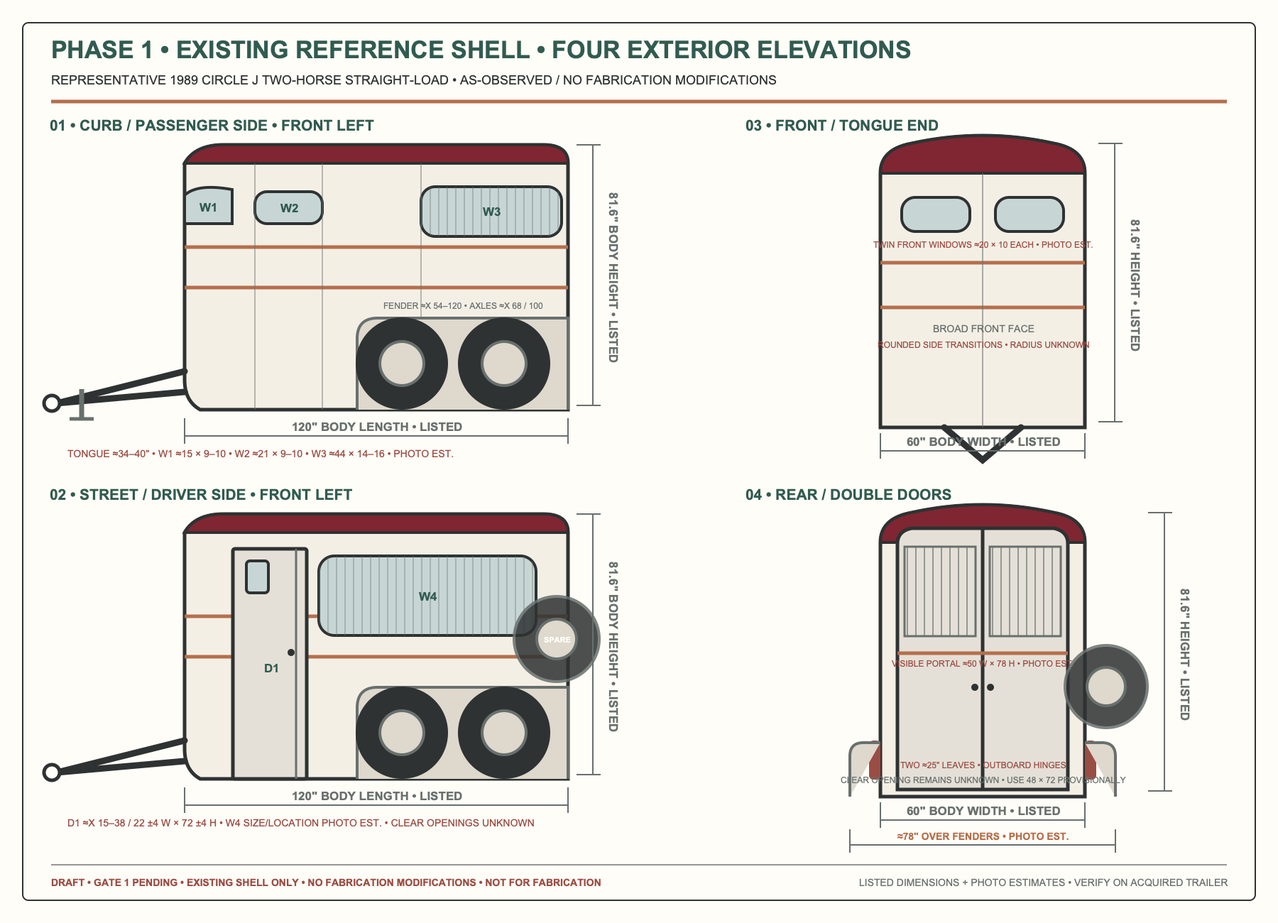
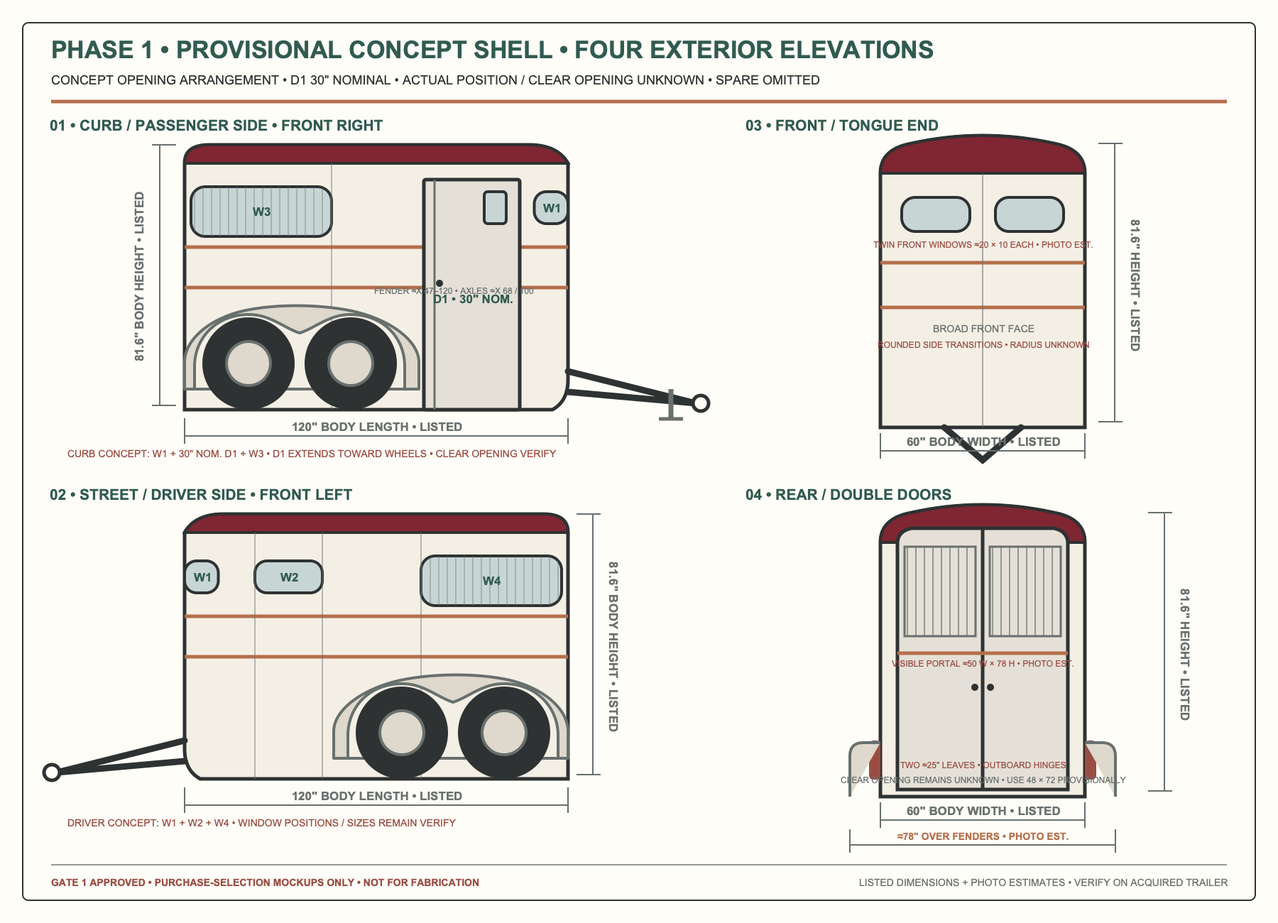
Complete Phase 1 provisional shell

diff --git a/11-MASTER-DIMENSIONAL-PARAMETER-REGISTER.md b/11-MASTER-DIMENSIONAL-PARAMETER-REGISTER.md
@@ -1,20 +1,20 @@
 # Lisa Drink Trailer — Master Dimensional Parameter Register
 
-**Revision:** 0.2 — September 7, 2026
-**Status:** DRAFT — AWAITING GATE 1 AND GATE 2 APPROVAL
+**Revision:** 0.6 — September 7, 2026
+**Status:** GATE 1 APPROVED — AWAITING GATE 2 APPROVAL
 **Purpose:** Provisional dimensional source for purchase-selection modeling and conversion coordination before the donor trailer is acquired and measured
 
 ## 1. Authority and permitted use
 
 This register implements the immediate next action in `10-PARAMETRIC-MODELING-PLAN.md`. It translates the current canonical written design into explicit parameters without changing any approved requirement.
 
-This draft is not yet canonical and does not override the Master Design Spec, Option A/B/C files or Decisions Log. If this register conflicts with those files, the canonical file wins and the conflict must be resolved before approval.
+This register is the approved Gate 1 provisional-envelope basis but does not override the Master Design Spec, Option A/B/C files or Decisions Log. If this register conflicts with those files, the canonical file wins and the conflict must be resolved before Gate 2 approval.
 
-Until Gate 1 and Gate 2 approval, this register may be used only to:
+Until Gate 2 approval, this register may be used only to:
 
 - audit dimensional completeness and consistency;
 - evaluate modeling systems;
-- construct non-released test geometry; and
+- construct purchase-selection mockups and non-released test geometry; and
 - identify measurements required for candidate-trailer screening.
 
 It may not be used to authorize purchase, structural cutting, equipment procurement, cabinetry release, fabrication, permitting or construction documentation.
@@ -82,7 +82,7 @@ These values describe only the documented reference trailer. They are retained s
 | REF-008 | Axle spacing | Approximately 32 | ESTIMATED | Difference of REF-006 and REF-007 | Photo-derived visualization input; allow at least ±2 inches pending direct measurement |
 | REF-009 | Tire outside diameter | Approximately 29 | ESTIMATED | REF-54738 photos 001 and 004 | Visual range approximately 28–31 inches; tire specification remains unknown |
 | REF-010 | Overall width over fenders | Approximately 78 | ESTIMATED | REF-54738 rear photo 004 scaled against 60-inch body width | Reference estimate only; SH-005 retains the 84-inch maximum clearance envelope |
-| REF-011 | Fender longitudinal envelope aft of front body datum | Approximately 54–120 | ESTIMATED | REF-54738 photo 001 | Photo-derived outer envelope; internal wheel-well geometry remains unknown |
+| REF-011 | Fender longitudinal envelope aft of front body datum | Approximately 47–120 | ESTIMATED | REF-54738 photo 001 and enhanced close view | Photo-derived outer envelope corrected to preserve the visible clearance ahead of the front tire; internal wheel-well geometry remains unknown |
 | REF-012 | Visible tongue projection from front body datum to coupler region | Approximately 34–40 | ESTIMATED | REF-54738 photo 001 scaled against REF-001 | Perspective-limited; SH-009 retains 48 inches as the conservative clearance-planning assumption |
 | REF-013 | Curb-side front-corner small-window longitudinal envelope | Approximately X 0–15 | ESTIMATED | REF-54738 photos 001 and 003 scaled against REF-001 | Visible outer opening envelope only; wraps the curved front corner; approximately 15 W × 9–10 H |
 | REF-014 | Curb-side forward small-window longitudinal envelope | Approximately X 22–43 | ESTIMATED | REF-54738 photo 001 scaled against REF-001 | Visible outer opening envelope only; approximately 21 W × 9–10 H |
@@ -92,6 +92,8 @@ These values describe only the documented reference trailer. They are retained s
 | REF-018 | Twin front-face windows | Approximately 20 W × 10 H each | ESTIMATED | REF-54738 photo 003 scaled against REF-002 | Perspective-limited outer opening envelopes; lateral offsets and clear sizes remain unknown |
 | REF-019 | Rear portal visible opening envelope | Approximately 50 W × 78 H | ESTIMATED | REF-54738 photos 004 and 005 scaled against REF-002/REF-003 | Approximately ±3 inches; visible envelope is not a verified clear opening or structural rough opening |
 | REF-020 | Rear double-door leaf face envelope | Approximately 25 W × 78 H each | ESTIMATED | REF-54738 photo 004 | Approximately ±2 W and ±3 H per leaf; center overlap, stops, seals and hardware reduce usable clearance |
+| REF-021 | Visible tire-to-inner-fender clearances | Approximately 6.5 ahead, 5.5 behind and 1 at crown | ESTIMATED | REF-54738 photo 001 and enhanced close view | Visualization proportions derived using the 29-inch tire proxy; do not use as suspension-travel or fabrication clearance |
+| REF-022 | Shell-top-to-fender / fender-to-ground visual split | Approximately 62% / 38% | ESTIMATED | REF-54738 photo 001 | Perspective-image proportion only; replaces the visually incorrect 50/50 relationship in the provisional elevation |
 
 The photo-derived values above were scaled manually from perspective raster images on September 7, 2026. They establish representative proportions only and are not suitable for purchase acceptance, interference approval or fabrication.
 
@@ -130,10 +132,10 @@ The photo-derived values above were scaled manually from perspective raster imag
 
 | ID | Model parameter | Provisional model input | Allowed/design range | Status | Source | Replacement trigger / note |
 |---|---|---:|---:|---|---|---|
-| LZ-001 | Front employee-support nook depth | 24 | 24 | DESIGN ASSUMPTION | MDS 1A; OA/OB/OC | Open to work aisle; no partition |
+| LZ-001 | Front employee-support nook depth | 24 target | 0–24 desired | DESIGN ASSUMPTION | MDS 1A; DL 2026-09-07 | Wish-list remainder only; open to work aisle with no partition when provided; may shrink or be omitted |
 | LZ-002 | Main work-zone length | 90 | 90 | DESIGN ASSUMPTION | MDS 6E; OA/OB/OC | Supports opening piers and exact equipment schedules |
-| LZ-003 | Total allocated interior length | 114 | 114 | DESIGN ASSUMPTION | LZ-001 + LZ-002 | Equals IN-001; no unallocated longitudinal tolerance |
-| LZ-004 | Front work-zone boundary from interior front datum | 24 | 24 | DESIGN ASSUMPTION | Derived | Start datum for service opening and equipment sequence |
+| LZ-003 | Minimum allocated work length | 90 | 90 | DESIGN ASSUMPTION | LZ-002 | Work zone controls; remaining verified interior length may become wish-list support space |
+| LZ-004 | Front work-zone boundary from interior front datum | Available remainder; 24 target in 114-inch test shell | 0–24 desired | DESIGN ASSUMPTION | `IN-001 - LZ-002` | Variable start datum for service opening and equipment sequence; not a required 24-inch boundary |
 | LZ-005 | Rear work-zone boundary from interior front datum | 114 | 114 | DESIGN ASSUMPTION | Derived | Coincides nominally with rear finished datum |
 
 ### 5.4 Required shell assertions
@@ -142,7 +144,7 @@ The first parametric implementation must stop with an error rather than regenera
 
 | Assertion | Required expression | Purpose |
 |---|---|---|
-| AS-001 | `LZ-001 + LZ-002 = IN-001` | Keeps the front nook and main work zone tied to the finished interior length |
+| AS-001 | `LZ-002 <= IN-001`; `LZ-001 = min(24, max(0, IN-001 - LZ-002))` | Protects the 90-inch work zone first and treats the front nook only as a wish-list remainder |
 | AS-002 | `2 × IN-005 + IN-002 = SH-002` only while walls are modeled as vertical proxies | Makes the inferred wall allowance explicit; disable and replace after wall sections are known |
 | AS-003 | `CV-001 + CV-003 = IN-002` | Enforces the locked 24-inch counter plus 32-inch aisle arrangement |
 | AS-004 | `CV-003 >= 30` at every operating projection and door position | Enforces minimum regulatory aisle width |
@@ -167,7 +169,7 @@ Unknown objects must be represented as disabled or visibly unresolved model laye
 | CH-006 | Wheel-well length | TBD | UNKNOWN | Candidate measurement and field survey |
 | CH-007 | Wheel-well interior projection | TBD | UNKNOWN | Candidate measurement and field survey |
 | CH-008 | Wheel-well height above finished floor | TBD | UNKNOWN | Candidate measurement and field survey |
-| CH-009 | Fender envelope | X approximately 54–120 from front body datum; approximately 78 overall width | ESTIMATED | REF-010 and REF-011; candidate measurement and field survey required |
+| CH-009 | Fender envelope | X approximately 47–120 from front body datum; approximately 78 overall width | ESTIMATED | REF-010 and REF-011; candidate measurement and field survey required |
 | CH-010 | Frame-rail positions/sections | TBD | UNKNOWN | Structural map required before underfloor placement |
 | CH-011 | Cross-member positions/sections | TBD | UNKNOWN | Structural map required before penetrations or tanks |
 | CH-012 | Floor construction and thickness | TBD | UNKNOWN | Physical inspection required |
@@ -179,11 +181,12 @@ Unknown objects must be represented as disabled or visibly unresolved model laye
 |---|---|---:|---:|---|---|---|
 | OP-001 | Rear-door clear width | 48 | 48–54 | DESIGN ASSUMPTION | MDS 1A; compare REF-019/REF-020 | Fit design to 48 until measured; photo-visible portal is approximately 50 inches wide but does not establish clear width |
 | OP-002 | Rear-door clear height | 72 | 72–76 | DESIGN ASSUMPTION | MDS 1A; compare REF-019/REF-020 | Fit design to 72 until measured; photo-visible portal is approximately 78 inches high but does not establish clear height |
-| OP-003 | Street-side donor-door position | TBD | Reference proxy outer frame approximately X 15–38 | UNKNOWN | MDS 6H; OA/OB/OC; compare REF-016 | B/C retain and protect; A permanently infills if present; candidate position must be measured |
-| OP-004 | Street-side donor-door clear width | TBD | Reference proxy outer frame approximately 22 ±4 | UNKNOWN | MDS 6H; compare REF-016 | Outer photo envelope is not a clear-opening dimension; controls B/C backbar breaks and egress |
-| OP-005 | Street-side donor-door clear height | TBD | Reference proxy outer frame approximately 72 ±4 | UNKNOWN | MDS 6H; compare REF-016 | Outer photo envelope is not a clear-opening dimension; controls B/C backbar bridge zone |
-| OP-006 | Existing curb-side openings | TBD | Reference proxy envelopes REF-013 through REF-015 | UNKNOWN | MDS 4.3 | Map every candidate opening before service-window design; photo estimates do not authorize cutting or reuse |
+| OP-003 | Donor side-door side and position | TBD | Reference proxy shows street-side outer frame approximately X 15–38; Phase 1 concept drawing places D1 curb-side | UNKNOWN | MDS 6H; OA/OB/OC; compare REF-016 | Concept placement is a visualization convention only; candidate side and position must be measured; Option rules remain separately locked |
+| OP-004 | Donor side-door clear width | TBD | Reference proxy outer frame approximately 22 ±4 | UNKNOWN | MDS 6H; compare REF-016 | Outer photo envelope is not a clear-opening dimension; exact door side and clear opening remain unknown |
+| OP-005 | Donor side-door clear height | TBD | Reference proxy outer frame approximately 72 ±4 | UNKNOWN | MDS 6H; compare REF-016 | Outer photo envelope is not a clear-opening dimension; exact clear height remains unknown |
+| OP-006 | Existing side openings | TBD | Reference proxy envelopes REF-013 through REF-016 | UNKNOWN | MDS 4.3 | Map every candidate opening before service-window design; photo estimates do not authorize cutting or reuse |
 | OP-007 | Existing roof openings | TBD | TBD | UNKNOWN | PMP 3 | Coordinate HVAC and Option A escape hatch |
+| OP-008 | Phase 1 concept opening arrangement | Curb: W1, 30-inch nominal outer-width D1, W3; street: W1, W2, W4; W1 shown at one-half W2 width on both sides | Actual door side/position, clear opening and all opening construction remain TBD | DESIGN ASSUMPTION | DL 2026-09-07 working direction | Hold D1's tongue-side jamb and extend nominal width toward wheels; drawing convention only, not donor evidence or an Option A/B/C revision |
 | ST-001 | Wall-post/rib positions | TBD | TBD | UNKNOWN | PMP 3; MDS 4.4 | No structural opening release without field map |
 | ST-002 | Roof-bow positions | TBD | TBD | UNKNOWN | PMP 3; MDS 4.4 | Controls HVAC and escape hatch |
 | ST-003 | Front bulkhead structure | TBD | TBD | UNKNOWN | MDS 4.4 | Controls electrical panel and employee nook |
@@ -201,7 +204,7 @@ Unknown objects must be represented as disabled or visibly unresolved model laye
 | CV-004 | Second full-depth counter allowance | 0 | 0 | DESIGN ASSUMPTION | MDS 1A, 6E | Prohibited in every option |
 | CV-005 | Service-opening width | 60 | 60 maximum | DESIGN ASSUMPTION | MDS 1A, 6E | Reduce if measured structure requires |
 | CV-006 | Service-opening height | 30 | 30 maximum | DESIGN ASSUMPTION | MDS 1A, 6E | Full open use not approved by health authority |
-| CV-007 | Service-opening longitudinal zone | X = 39 to 99; center X = 69 | Centered in 90-inch work zone | DESIGN ASSUMPTION | MDS 6E; derived from LZ-004, CV-005 and CV-008 | Provisional only; relocate/reduce after structure map if required |
+| CV-007 | Service-opening longitudinal zone | X = `LZ-004 + 15` to `LZ-004 + 75`; target X = 39 to 99 in 114-inch test shell | Centered in 90-inch work zone | DESIGN ASSUMPTION | MDS 6E; derived from LZ-004, CV-005 and CV-008 | Moves with the variable front remainder; relocate/reduce after structure map if required |
 | CV-008 | Front solid wall pier | 15 | 15 nominal | DESIGN ASSUMPTION | MDS 6E | Not a verified structural pier |
 | CV-009 | Rear solid wall pier | 15 | 15 nominal | DESIGN ASSUMPTION | MDS 6E | Not a verified structural pier |
 | CV-010 | Service-opening sill elevation | TBD | Coordinate to 36–40 service counter | UNKNOWN | MDS 6E | Set only after clear height/header band is verified |
@@ -373,7 +376,7 @@ These findings do not revise the design. They identify issues that must be accep
 
 | Finding | Severity | Observation | Required resolution |
 |---|---|---|---|
-| F-001 | CONTROLLED | The 114-inch finished interior length equals the 24-inch front nook plus the 90-inch work zone exactly. There is no unallocated longitudinal zone. | Use the finished-face datums and AS-001. Any measured shortfall fails the fit test and requires design review. |
+| F-001 | CONTROLLED | The 90-inch work zone is the controlling longitudinal allocation. A 114-inch test shell leaves up to 24 inches ahead of it, but that remainder is a wish-list employee-support area rather than a required zone. | Use the finished-face datums and AS-001. Reduce or omit the nook before reducing required operations, clearances or egress; a work-zone shortfall still requires design review. |
 | F-002 | HIGH | Each A/B equipment schedule totals exactly 90 inches, and the Option C module schedule also totals exactly 90 inches. Catalog widths, end panels, fillers, side clearances, plumbing offsets and shell irregularity have no allocated tolerance. | Create a module-tolerance strategy and test low/high catalog envelopes before Gate 2. Do not resize operational equipment silently. |
 | F-003 | CONTROLLED | The 56-inch interior width equals one 24-inch counter plus the 32-inch nominal aisle exactly. Any backsplash build-out, handle projection, wall irregularity or opposite-wall lower element can reduce the aisle. | Measure counter depth from finished wall to maximum operating projection and enforce AS-003, AS-004 and AS-009. Any intrusion fails the fit test. |
 | F-004 | HIGH | B/C retain a street-side door, but its position and dimensions are unknown while both backbar compositions depend on it. | Hold final backbar widths, mounting and symmetry until a candidate door is measured. |
@@ -425,13 +428,15 @@ These measurements support purchase screening only. A complete physical survey r
 
 ### Gate 1 — provisional envelope
 
-**Current recommendation:** NOT YET APPROVED.
+**Status:** APPROVED September 7, 2026, by Mike.
+
+**Approved basis:** Mike approved the provisional 120 × 60 × 84-inch exterior body envelope; the 114 × 56 × 76-inch conservative finished-clear interior envelope using the cutaway; the revised longitudinal rule protecting the 90-inch work zone while treating up to 24 inches of front remainder as wish-list space; the provisional 48 × 72-inch rear-door opening; the concept side-opening arrangement; and the photo-estimated running-gear/fender silhouette. Mike also explicitly accepted that donor-specific chassis, internal wheel-well, structural-member, roof-profile, floor/ceiling assembly and actual-opening geometry remain `UNKNOWN` for purchase-selection mockups.
 
 The envelope is sufficiently explicit to construct a provisional test shell and evaluate modeling tools, but the following must be accepted as deliberate purchase-selection assumptions before the shell is approved for candidate mockups:
 
 - 120 × 60 × 84-inch exterior body envelope;
 - 114 × 56 × 76-inch conservative finished-clear interior envelope, with an 80-inch high case retained only as a secondary range test;
-- 24-inch front nook plus 90-inch work zone with no unallocated longitudinal tolerance;
+- 90-inch controlling work zone, with any front remainder treated as a wish-list employee-support area up to 24 inches rather than a required allocation;
 - provisional 48 × 72-inch rear-door opening; and
 - all chassis, wheel-well, structural-member, roof-profile and side-door geometry remaining `UNKNOWN`.
 
@@ -456,7 +461,7 @@ Before Gate 2 approval:
 
 | Gate | Status | Approved by | Date | Scope / conditions |
 |---|---|---|---|---|
-| Gate 1 — provisional envelope | PENDING | — | — | Purchase-selection mockups only |
+| Gate 1 — provisional envelope | APPROVED | Mike | 2026-09-07 | Purchase-selection mockups only; all documented assumptions and `UNKNOWN` geometry retained; no fabrication or purchase release |
 | Gate 2 — conversion parameters | PENDING | — | — | Required before option geometry construction |
 
 Approval of this register does not verify the future donor trailer and does not release procurement, cutting, fabrication, permitting or construction documentation.

diff --git a/12-REFERENCE-TRAILER-PHOTO-SURVEY.md b/12-REFERENCE-TRAILER-PHOTO-SURVEY.md
@@ -1,6 +1,6 @@
 # Lisa Drink Trailer — Locked Reference Trailer Photo and Plan Survey
 
-**Revision:** 0.2 — September 7, 2026
+**Revision:** 0.6 — September 7, 2026
 **Status:** SUPPORTING EVIDENCE — NOT DESIGN AUTHORITY / NOT A FIELD SURVEY
 **Reference:** 1989 Circle J two-horse straight-load bumper-pull, Horse Trailer Trader stock 54738
 **Purpose:** Record observable shell, running-gear, opening and structural cues for the provisional Phase 1 model without misrepresenting raster photographs as measured donor geometry
@@ -18,17 +18,19 @@ This survey separates:
 
 Perspective, lens distortion, low resolution, occlusion and unknown measurement conventions materially limit the estimates. No value in this survey is field-verified. Photo-estimated values may guide a provisional visualization layer, but they may not support purchase acceptance, equipment fit, structural design, cutting, fabrication or permitting.
 
-Third-party photographs and the secondary Pinterest plan were inspected from their original URLs. They are not copied into the repository or approved for presentation reuse.
+The five Horse Trailer Trader photographs are preserved as reference copies in `references/photos/horse-trailer-trader-54738/`, with their original URLs and provenance retained below. They remain supporting evidence and are not approved as presentation artwork. The secondary Pinterest plan was inspected from its original URL and is not copied into the repository.
+
+The photographed reference shows a street/driver-side door. The Phase 1 provisional concept drawings intentionally use a different, explicitly unverified opening arrangement: D1 on the curb/passenger side at 30 inches nominal outer width, W2 on the street/driver side and W1 on both sides. The 30-inch D1 is extended toward the wheels from a held tongue-side jamb. That working drawing convention does not reinterpret the photographs or establish the future donor trailer's door side, position, construction or clear opening.
 
 ## 2. Photo index and walk-around sequence
 
 | Photo | Listing view | Principal evidence |
 |---|---|---|
-| [001](https://cdn.horsetrailertrader.com/trailer-images/54738/1989_Circle_J_001.jpg) | Near-orthographic curb/passenger-side profile; tongue left, rear right | Body-length scaling, axle centers, axle spacing, tire diameter, longitudinal fender envelope, curb-side windows, roof/body seam and lower frame relationship |
-| [002](https://cdn.horsetrailertrader.com/trailer-images/54738/1989_Circle_J_002.jpg) | Close oblique street/driver-side view looking toward the rear | Existing forward side/escape door, large upper opening, door swing, wall rails, rear portal and fender relationship |
-| [003](https://cdn.horsetrailertrader.com/trailer-images/54738/1989_Circle_J_003.jpg) | Front three-quarter view | Broad front face, rounded front corners, curved roof cap, front windows, A-frame relationship and side-to-front transitions |
-| [004](https://cdn.horsetrailertrader.com/trailer-images/54738/1989_Circle_J_004.jpg) | Rear view with double doors closed | Approximate body-to-fender width ratio, rear portal, split rear doors, roof/rear corner radii, hinges, lights, license plate and spare-tire projection |
-| [005](https://cdn.horsetrailertrader.com/trailer-images/54738/1989_Circle_J_005.jpg) | Rear view with both doors open | Interior width character, center stall divider, roof bows, interior wall framing cues, floor/mat condition and rear-door swing envelope |
+| [001](references/photos/horse-trailer-trader-54738/1989_Circle_J_001.jpg) ([original](https://cdn.horsetrailertrader.com/trailer-images/54738/1989_Circle_J_001.jpg)) | Near-orthographic curb/passenger-side profile; tongue left, rear right | Body-length scaling, axle centers, axle spacing, tire diameter, longitudinal fender envelope, curb-side windows, roof/body seam and lower frame relationship |
+| [002](references/photos/horse-trailer-trader-54738/1989_Circle_J_002.jpg) ([original](https://cdn.horsetrailertrader.com/trailer-images/54738/1989_Circle_J_002.jpg)) | Close oblique street/driver-side view looking toward the rear | Existing forward side/escape door, large upper opening, door swing, wall rails, rear portal and fender relationship |
+| [003](references/photos/horse-trailer-trader-54738/1989_Circle_J_003.jpg) ([original](https://cdn.horsetrailertrader.com/trailer-images/54738/1989_Circle_J_003.jpg)) | Front three-quarter view | Broad front face, rounded front corners, curved roof cap, front windows, A-frame relationship and side-to-front transitions |
+| [004](references/photos/horse-trailer-trader-54738/1989_Circle_J_004.jpg) ([original](https://cdn.horsetrailertrader.com/trailer-images/54738/1989_Circle_J_004.jpg)) | Rear view with double doors closed | Approximate body-to-fender width ratio, rear portal, split rear doors, roof/rear corner radii, hinges, lights, license plate and spare-tire projection |
+| [005](references/photos/horse-trailer-trader-54738/1989_Circle_J_005.jpg) ([original](https://cdn.horsetrailertrader.com/trailer-images/54738/1989_Circle_J_005.jpg)) | Rear view with both doors open | Interior width character, center stall divider, roof bows, interior wall framing cues, floor/mat condition and rear-door swing envelope |
 
 ## 3. Listed reference facts
 
@@ -73,8 +75,12 @@ The profile is the least oblique of the five photos. Scaling was performed again
 | Rear axle center aft of front body datum | 100 inches | ±3 inches | Representative visualization only |
 | Axle spacing | 32 inches | ±2 inches | Difference is more stable than either absolute center |
 | Tire outside diameter | 29 inches | Approximately 28–31 inches | Tire specification remains UNKNOWN |
-| Fender leading edge aft of front body datum | 54 inches | ±5 inches | Edge is curved and partly obscured |
+| Fender leading edge aft of front body datum | Approximately 47 inches | ±5 inches | Corrected from 54 inches after reviewing the enhanced close view; the fender visibly begins ahead of the front tire rather than tangent to it |
 | Fender trailing edge aft of front body datum | Approximately 120 inches | ±3 inches | Visually reaches the rear body region |
+| Tire-to-fender clearance, ahead of front tire | Approximately 6.5 inches | ±3 inches | Derived from the 47-inch fender lead, 68-inch axle center and 29-inch tire proxy; visualization only |
+| Tire-to-fender clearance, behind rear tire | Approximately 5.5 inches | ±3 inches | Derived from the 120-inch fender end, 100-inch axle center and 29-inch tire proxy; visualization only |
+| Visible tire-to-inner-fender crown clearance | Approximately 1 inch | ±1 inch | The tire is closely tucked beneath the inner fender arch; retain a visible gap without implying suspension clearance |
+| Shell-top-to-fender / fender-to-ground split | Approximately 62% / 38% | ±4 percentage points | Profile-image proportion using the roof crown, outer fender crown and tire contact line; the relationship is not 50/50 |
 | Visible tongue projection, front body to coupler region | Approximately 34–40 inches | ±6 inches | Does not override the 48-inch conservative design assumption |
 
 The same 120-inch profile scale supports provisional outer-opening envelopes. These are wall-face projections, not clear openings or structural rough openings.
@@ -108,14 +114,14 @@ The same 120-inch profile scale supports provisional outer-opening envelopes. Th
 
 - Options B and C must treat the retained street-side door as a real interruption, not a small symbolic notch in a continuous backbar.
 - The door swing, latch, threshold, step, grab handle and interior release need their own operating and egress volumes.
-- The photograph cannot establish whether the door falls wholly inside the 24-inch front support zone, crosses the 24/90-inch boundary or occupies the main work zone. That position remains a candidate-measurement priority.
+- The photograph cannot establish whether the door falls wholly inside the desired front support remainder, crosses the target boundary near X = 24 inches in the 114-inch test shell, or occupies the controlling main work zone. That position remains a candidate-measurement priority.
 - Option A's permanent infill assumption requires a measured door/frame map and engineered replacement load path; the photo does not support a flush cosmetic infill alone.
 
 ### Photo-scaled door envelope
 
 Mapping the visible street-side wall to the listed 120-inch body suggests an outer door-frame envelope from approximately X 15 to X 38 inches aft of the front body datum. The corresponding visible envelope is approximately 22 ±4 inches wide and 72 ±4 inches high. The small upper door-window aperture appears approximately 5–7 inches wide × 9–11 inches high.
 
-These are deliberately low-confidence outer-envelope estimates from a highly oblique image. They do not establish clear opening, rough opening, threshold height, frame section, door thickness or swing clearance. The estimate suggests that the door likely crosses the canonical X = 24-inch front-nook/work-zone boundary, making it a direct constraint for Options B and C.
+These are deliberately low-confidence outer-envelope estimates from a highly oblique image. They do not establish clear opening, rough opening, threshold height, frame section, door thickness or swing clearance. In the 114-inch test shell, the estimate suggests that the door likely crosses the target X = 24-inch front-remainder/work-zone boundary. That boundary is not required and must move with verified interior length, but the door remains a direct constraint for Options B and C.
 
 ## 6. Photo 003 — front three-quarter view
 
@@ -213,7 +219,7 @@ The user-supplied [Pinterest pin 290763719708099062](https://ar.pinterest.com/pi
 
 ### Running-gear comparison
 
-The Pinterest drawing cannot check wheel placement. It shows a side-mounted spare tire but omits the road wheels, fenders, axle centerlines, track width and wheel wells. The current approximately 68-inch and 100-inch axle centers, approximately 32-inch spacing and approximately 54–120-inch fender envelope remain derived only from Circle J listing photos 001 and 004.
+The Pinterest drawing cannot check wheel placement. It shows a side-mounted spare tire but omits the road wheels, fenders, axle centerlines, track width and wheel wells. The current approximately 68-inch and 100-inch axle centers, approximately 32-inch spacing and approximately 47–120-inch fender envelope remain derived only from Circle J listing photos 001 and 004 and the enhanced close view of photo 001.
 
 ## 10. Consolidated comparison with the Phase 1 register
 
@@ -229,7 +235,7 @@ The Pinterest drawing cannot check wheel placement. It shows a side-mounted spar
 | Axle spacing | Approximately 32 | Approximately 32 PHOTO-ESTIMATED | Use only in the reference-geometry layer |
 | Tire outside diameter | Approximately 29 | Approximately 28–31 PHOTO-ESTIMATED | Use 29 nominal for visualization; tire specification remains UNKNOWN |
 | Overall width over fenders | 84 maximum clearance envelope | Approximately 78 PHOTO-ESTIMATED | Show both: 78 reference estimate and 84 design-clearance maximum |
-| Fender longitudinal envelope | Approximately 54–120 | Approximately 54–120 PHOTO-ESTIMATED | Use only in the reference-geometry layer |
+| Fender longitudinal envelope | Approximately 47–120 | Approximately 47–120 PHOTO-ESTIMATED | Use only in the reference-geometry layer; corrected to retain visible tire-to-fender clearance |
 | Interior wheel-well envelope | TBD | Not visible well enough | Remain UNKNOWN |
 | Street-side door position/size | TBD | Outer frame approximately X 15–38 and 22 ±4 W × 72 ±4 H PHOTO-ESTIMATED | Show only in reference-estimate layer; clear opening remains UNKNOWN and blocks B/C backbar release |
 | Rear opening | 48 × 72 conservative | Visible portal approximately 50 W × 78 H; two approximately 25-inch leaves PHOTO-ESTIMATED | Retain conservative clear-opening assumption; model leaves and outward swing separately |

diff --git a/02-DECISIONS-LOG.md b/02-DECISIONS-LOG.md
@@ -1,6 +1,6 @@
 # Lisa Drink Trailer — Decisions Log
 
-**Revision:** 2.6 — September 7, 2026
+**Revision:** 2.8 — September 7, 2026
 **Status:** CANONICAL DECISION RECORD  
 **Rule:** A decision becomes authoritative only when recorded here and incorporated into the applicable canonical specification.
 
@@ -24,7 +24,7 @@
 | 2026-09-06 | LOCKED | Provide a 14–16-inch-deep customer ledge in operating mode; fold or remove and positively latch it for travel. |
 | 2026-09-06 | LOCKED | Preserve one 24-inch production line and a 32-inch nominal clear aisle; prohibit two full-depth opposing counters. |
 | 2026-09-06 | SUPERSEDED | Convert the front changing/tack area into a separated micro employee break/support area. |
-| 2026-09-07 | LOCKED | Remove the front partition from Options A, B and C; retain the 24-inch employee break/support nook as an open area visible from the work aisle. |
+| 2026-09-07 | SUPERSEDED | Remove the front partition from Options A, B and C; retain the 24-inch employee break/support nook as an open area visible from the work aisle. Superseded only as to the fixed 24-inch depth by Mike's later wish-list direction; if any nook is provided, it remains open with no partition. |
 | 2026-09-06 | LOCKED | Use only real, listed, off-the-shelf operational equipment; trailer-specific cabinetry and supports may be fabricated. |
 | 2026-09-06 | LOCKED | Retain a separate 12-inch hand sink in every option unless written health-authority approval changes the requirement. |
 | 2026-09-06 | CONDITIONAL | Options A and B use the 36-inch two-compartment sink as the locked concept basis. Procurement/fabrication requires written acceptance of the two-compartment procedure; otherwise redesign the 90-inch line for the required configuration. |
@@ -65,6 +65,12 @@
 | 2026-09-07 | LOCKED | Select exterior-lighting study Option 2 as the concept and presentation direction: two matching compact oval caged bulkhead lights in matte charcoal, approximately 5 inches wide × 8 inches tall, with vertically ribbed frosted glass and soft glare-controlled 2700–3000 K illumination. The study controls visual direction only; exact listed exterior-rated product, photometrics, wiring, mounting and structural clearances remain **VERIFY**, with no procurement or fabrication release. |
 | 2026-09-07 | LOCKED | Mike approved `COVER-EX-01-twilight-rear-seating-approved.png` for presentation use. Preserve the accepted trailer design, place loose seating behind the trailer to keep the service-side queue apron clear, and use the later deep-blue twilight setting with the approved warm oval bulkhead lighting. Sign artwork and technical dimensions remain separate verification/layout tasks. |
 | 2026-09-07 | LOCKED | Adopt `10-PARAMETRIC-MODELING-PLAN.md` as the canonical concept-to-construction geometry workflow. Because the donor trailer has not yet been purchased or measured, build a provisional parameter-driven master shell from the representative Circle J platform, explicitly classifying dimensions as VERIFIED REFERENCE, ESTIMATED, DESIGN ASSUMPTION or UNKNOWN. Future geometry-controlled plans, elevations, sections and presentation views are to be derived from one approved master model rather than independently interpreted illustrations. Existing approved SVG drawings remain concept references, not fabrication drawings. After purchase, replace provisional shell parameters with a VIN-specific physical survey before construction-document release. |
+| 2026-09-07 | WORKING | For the Phase 1 provisional concept-shell drawings only, show D1 on the curb/passenger side at 30 inches nominal outer width, holding its tongue-side jamb and extending the added width toward the wheels. Place W2 on the street/driver side, show W1 on both sides at one-half W2 width and flip the passenger-side elevation so its tongue faces right for the intended camera-like view. D1's actual side, position, construction and clear opening remain unknown. This visualization arrangement does not revise the locked Option A/B/C door, service-window or egress rules. |
+| 2026-09-07 | LOCKED | For Phase 1 Gate 1 review, Mike approved the provisional 120 × 60 × 84-inch exterior body envelope. This approves item 1 only as a purchase-selection modeling assumption; the finished interior envelope and Gate 1 as a whole remain pending. |
+| 2026-09-07 | LOCKED | Treat the former 24-inch front employee-support nook as a wish-list target, not a required allocation. The 90-inch work zone controls; any verified interior length remaining ahead of it may support an open nook up to 24 inches, but the nook may shrink or be omitted rather than displacing required operations, clearances or egress. |
+| 2026-09-07 | LOCKED | For Phase 1 Gate 1 review, Mike approved the provisional 114 × 56 × 76-inch finished-clear interior envelope using the transverse and longitudinal cutaway. The 80-inch clear-height case remains a secondary range test; floor and roof/ceiling build-up shares remain unassigned pending donor survey. |
+| 2026-09-07 | LOCKED | For Phase 1 Gate 1 review, Mike approved the provisional 48 × 72-inch rear-door opening, the concept side-door/window arrangement and outward swing indications, and the photo-estimated running-gear/fender silhouette. These remain purchase-selection assumptions rather than verified donor geometry or fabrication authorization. |
+| 2026-09-07 | LOCKED | Mike approved item 7 and completed Phase 1 Gate 1. The provisional envelope is approved for purchase-selection mockups only, with donor-specific chassis, internal wheel-well, structural-member, roof-profile, floor/ceiling assembly and actual-opening geometry explicitly retained as `UNKNOWN`. Gate 1 does not authorize donor purchase without inspection, fit-based procurement, structural cutting, fabrication, permitting or construction documentation. |
 
 ## Open and verification-required decisions
 

diff --git a/drawings/README.md b/drawings/README.md
@@ -7,10 +7,25 @@ This directory contains the three `PL-01` concept plans and twelve `EL-01` throu
 
 It also contains the provisional Phase 1 shell-definition drawings used for purchase-selection study before a donor trailer is acquired:
 
-- `provisional/PH1-SH-PL-01-shell-plan.svg` — unmodified reference-shell plan with photo-estimated running gear and opening envelopes;
-- `provisional/PH1-SH-EL-01-existing-shell-elevations.svg` — curb, street, front and rear exterior elevations of the unmodified reference shell.
+- `provisional/PH1-SH-PL-01-shell-plan.svg` — provisional concept-shell plan with photo-estimated running gear and explicitly unverified opening arrangement;
+- `provisional/PH1-SH-EL-01-existing-shell-elevations.svg` — curb, street, front and rear exterior concept-shell elevations;
+- `provisional/PH1-SH-SE-01-shell-cutaway.svg` — transverse and longitudinal cutaways comparing the approved exterior and finished-clear interior planning envelopes while keeping assembly build-ups unresolved.
+
+The Phase 1 opening convention is curb/passenger W1 + D1 + W3 and street/driver W1 + W2 + W4. D1 is drawn at 30 inches nominal outer width by holding its tongue-side jamb and extending toward the wheels; its actual side, position and clear opening remain unknown. W1 is drawn at one-half W2's width on both sides, with a visible gap between W1 and D1. The passenger-side elevation is intentionally shown with the tongue facing right; the plan retains its standard tongue-left datum. These are visualization choices only and do not verify donor openings or revise the approved Option A/B/C rules.
+
+The shell plan distinguishes D1 from the window openings and indicates outward opening for D1 and both rear door leaves. Swing direction is conceptual until actual hinges, leaves and clearances are measured.
+
+The curb- and street-side elevations show the fender as an open, continuous tandem-wheel arch. Its front and rear legs terminate at the same height, and the inner opening preserves visible clearance above and beside both tires, matching the close reference view of photo 001. Exact radii and clearances remain photo-estimated.
+
+The removable spare wheel visible in the reference photographs is intentionally omitted from the provisional exterior elevations. Its observed location remains documented in the reference-photo survey.
 
 The Phase 1 shell sheets are supporting evidence only. They contain listed reference dimensions, photo estimates and unresolved geometry; they are not approved master-model outputs or fabrication drawings.
+
+Mike approved Phase 1 Gate 1 on September 7, 2026, for purchase-selection mockups only. The approval accepts the documented design assumptions and photo estimates while retaining all donor-specific chassis, wheel-well, structural, roof, assembly and actual-opening geometry as unknown. It does not authorize purchase without inspection, fit-based procurement, cutting, fabrication, permitting or construction documentation.
+
+The cutaway does not assign thicknesses to the floor and roof. It shows the approved-for-Gate-1-planning 76-inch clear height inside the approved 84-inch exterior height; allocation of the combined 8-inch difference remains unknown pending a donor survey and assembly definition. The 2-inch nominal sidewall allowance is an estimate derived from the approved planning widths of 60 inches exterior and 56 inches interior.
+
+The cutaway's 24-inch front segment is the remainder produced by the 114-inch test interior after protecting the 90-inch work zone. It is a wish-list employee-support target, not a required minimum; it may shrink or be omitted when candidate measurements, operations, clearances or egress require the space.
 
 The Option files remain the authoritative geometry until Mike approves these vector derivatives. Any conflict is corrected in the drawings; it does not change the Option files.
 

diff --git a/01-MASTER-DESIGN-SPEC.md b/01-MASTER-DESIGN-SPEC.md
@@ -75,7 +75,7 @@ Use sources in this order:
 | Interior clear width | **4 ft 8 in (56 in)** | Governing layout width |
 | Interior clear height | **6 ft 4 in–6 ft 8 in** | Maintain at least 74 in clear over aisle |
 | Rear-door opening | **48–54 in W × 72–76 in H** | Fit design to 48 × 72 in until measured |
-| Front tack-area depth | **24 in** | Open employee support nook; no partition |
+| Front employee-support area | **Up to 24 in desired** | Wish-list remainder after the required work zone; no minimum depth and no partition |
 | Floor/deck height above grade | **18–24 in** | Use 24 in for step/access studies |
 | Main work counter | **24 in D × 36 in H** | Standard catalog equipment; either opposite the window (Option A opposite-wall service) or directly beneath it (Options B/C standard-bar service) |
 | Clear employee aisle | **30–34 in** | Never less than 30 in |
@@ -438,9 +438,9 @@ The former horse compartment is the complete production, sanitation, storage and
 - GFCI-protected receptacles, correctly sized distribution and shore-power connection; add battery/inverter or generator only if the approved operating model requires it
 - Insulation, mechanical ventilation and cooling adequate for staff, equipment heat and a closed metal shell
 
-### 6B. Front changing/tack area — micro employee break/support area
+### 6B. Front changing/tack area — wish-list employee break/support area
 
-The existing front changing/tack area is reserved as an open micro employee break/support nook visible from the work aisle. It is not overflow beverage preparation or general equipment storage. Every layout must include:
+When verified trailer length remains after the required work zone is accommodated, use up to 24 inches of the existing front changing/tack area as an open micro employee break/support nook visible from the work aisle. The 24-inch depth is a wish-list target, not a minimum requirement, and may shrink or disappear rather than displacing required operations, clearances or egress. If provided, it is not overflow beverage preparation or general equipment storage and should include, in priority order as space permits:
 
 - No partition, curtain or overhead track between the nook and beverage operations
 - Compact built-in seat or fold-down jump seat

diff --git a/references/photos/horse-trailer-trader-54738/README.md b/references/photos/horse-trailer-trader-54738/README.md
@@ -1,0 +1,13 @@
+# Horse Trailer Trader Stock 54738 Reference Photos
+
+Downloaded September 7, 2026 from the original Horse Trailer Trader image URLs documented in `12-REFERENCE-TRAILER-PHOTO-SURVEY.md`.
+
+These five photographs show a representative 1989 Circle J two-horse straight-load bumper-pull trailer. They are supporting reference evidence only: they are not photographs of the future donor trailer, do not establish field-verified dimensions, and are not approved as presentation artwork.
+
+| File | SHA-256 |
+|---|---|
[5 lines of base64/hex data omitted]

diff --git a/07-RENDERING-CONTROLS.md b/07-RENDERING-CONTROLS.md
@@ -68,7 +68,7 @@ Create an original concept interior within the locked 9 ft 6 in clear length, 56
 - Warm 2700–3000 K customer/display light and sealed 3000–3500 K high-CRI work light
 - One controlled softly illuminated bottle-display feature
 - Enclosed or positively retained glass storage
-- Open 24-inch employee break/support nook with no partition, curtain or overhead track
+- Wish-list open employee break/support nook, up to 24 inches when verified space permits, with no partition, curtain or overhead track; do not depict 24 inches as a guaranteed minimum
 - Rear double doors preserved as clear egress: primary staff entry/exit for Option A and secondary egress for Options B/C
 - High dry electrical panel on the open front employee-support wall
 - No pendant lights, chandelier, rotating fan, hanging stemware, loose decorative bottles, residential cabinetry or hidden sanitation equipment

diff --git a/renders/elevation-review/README.md b/renders/elevation-review/README.md
@@ -31,7 +31,7 @@ The approved files in `drawings/concept/` are the sole authority. Option markdow
    - Check handedness and front/tongue direction.
    - Check equipment count, order and relative module widths.
    - Check window, door and clear-egress locations.
-   - Check plan envelope against 114 × 56 inches and 24/90 zoning.
+   - Check plan envelope against 114 × 56 inches, the controlling 90-inch work zone and any wish-list front remainder up to 24 inches.
    - Reject and rerun any mismatch before presentation use.
 
 ## Final outputs
